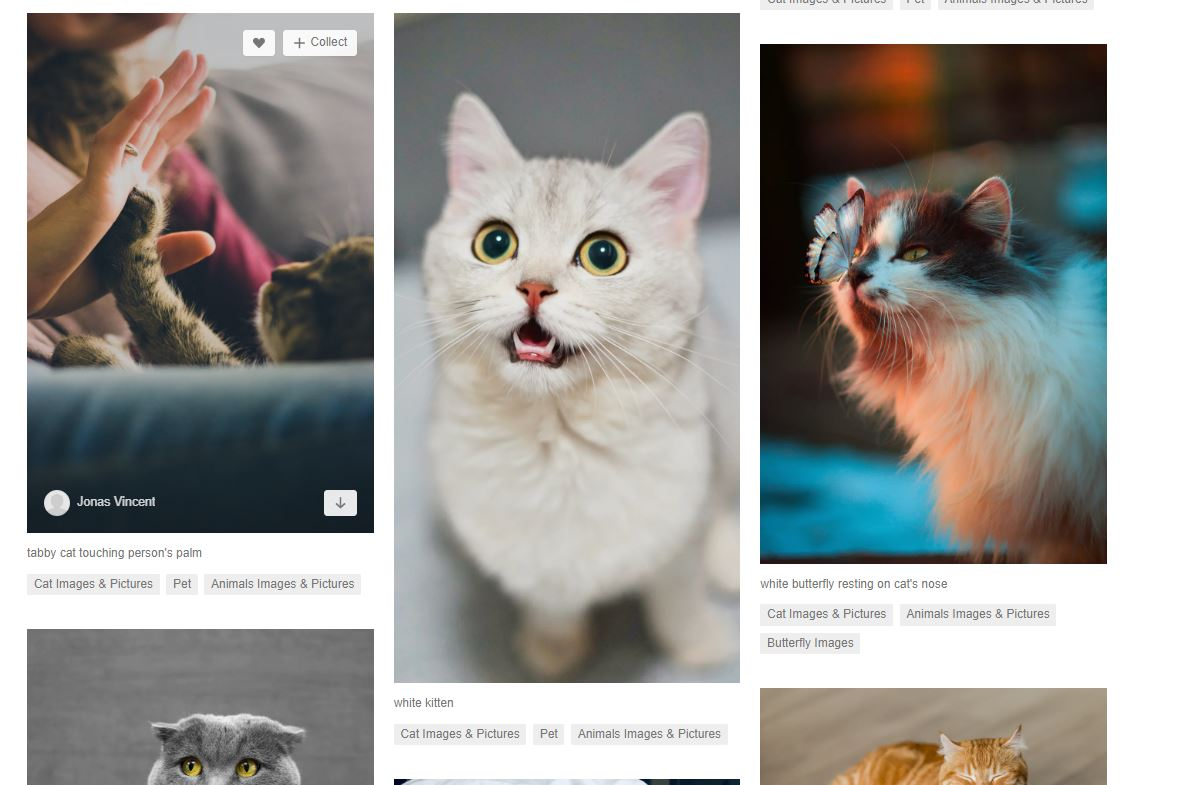
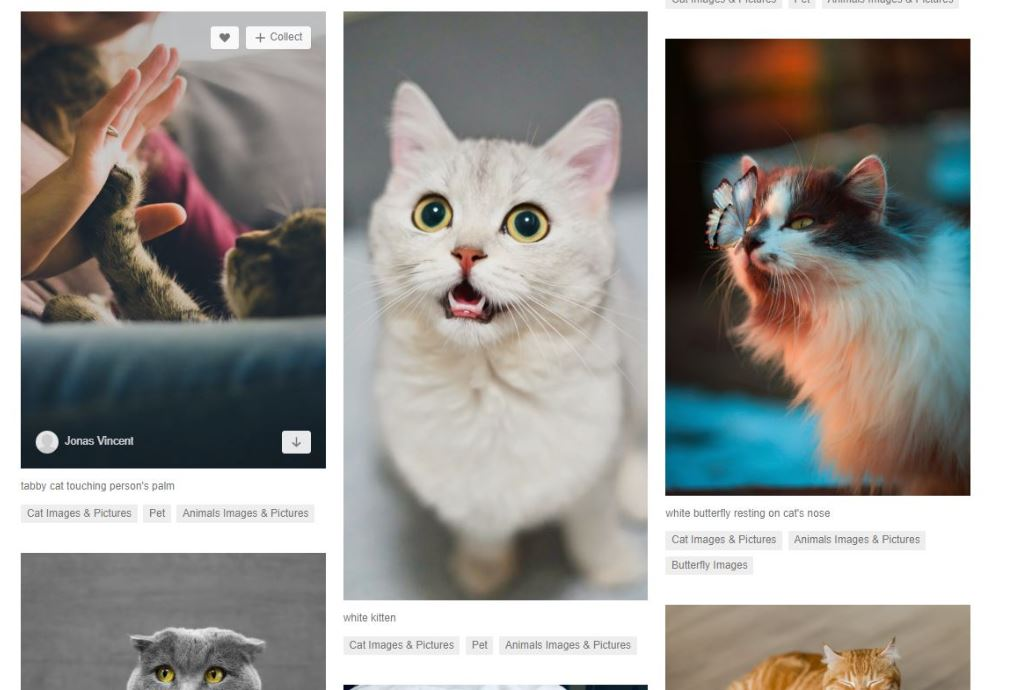
Site updated: 2020-03-10 00:58:14

diff --git a/2020/03/10/HTML-1-HTMLTags-Images-2/index.html b/2020/03/10/HTML-1-HTMLTags-Images-2/index.html
@@ -29,7 +29,7 @@
 <meta property="og:locale" content="zh_TW">
 <meta property="og:image" content="http://yoursite.com/images/HTML-1-HTMLTags-Images-2.JPG">
 <meta property="article:published_time" content="2020-03-09T16:09:33.000Z">
-<meta property="article:modified_time" content="2020-03-09T16:53:19.089Z">
+<meta property="article:modified_time" content="2020-03-09T16:58:09.791Z">
 <meta property="article:author" content="Ivey">
 <meta property="article:tag" content="HTML標籤">
 <meta property="article:tag" content="HTML標籤-圖像">
@@ -188,7 +188,7 @@
               <span class="post-meta-item-text">發表於</span>
               
 
-              <time title="創建時間：2020-03-10 00:09:33 / 修改時間：00:53:19" itemprop="dateCreated datePublished" datetime="2020-03-10T00:09:33+08:00">2020-03-10</time>
+              <time title="創建時間：2020-03-10 00:09:33 / 修改時間：00:58:09" itemprop="dateCreated datePublished" datetime="2020-03-10T00:09:33+08:00">2020-03-10</time>
             </span>
 
           
@@ -213,7 +213,7 @@
 <map name="cats">
     <area
     shape="rect"
-    coords="27,13,373,533"
+    coords="20,12,325,467"
     href ="https://unsplash.com/photos/xulIYVIbYIc"
     target ="_blank"
     alt="cat1" />
